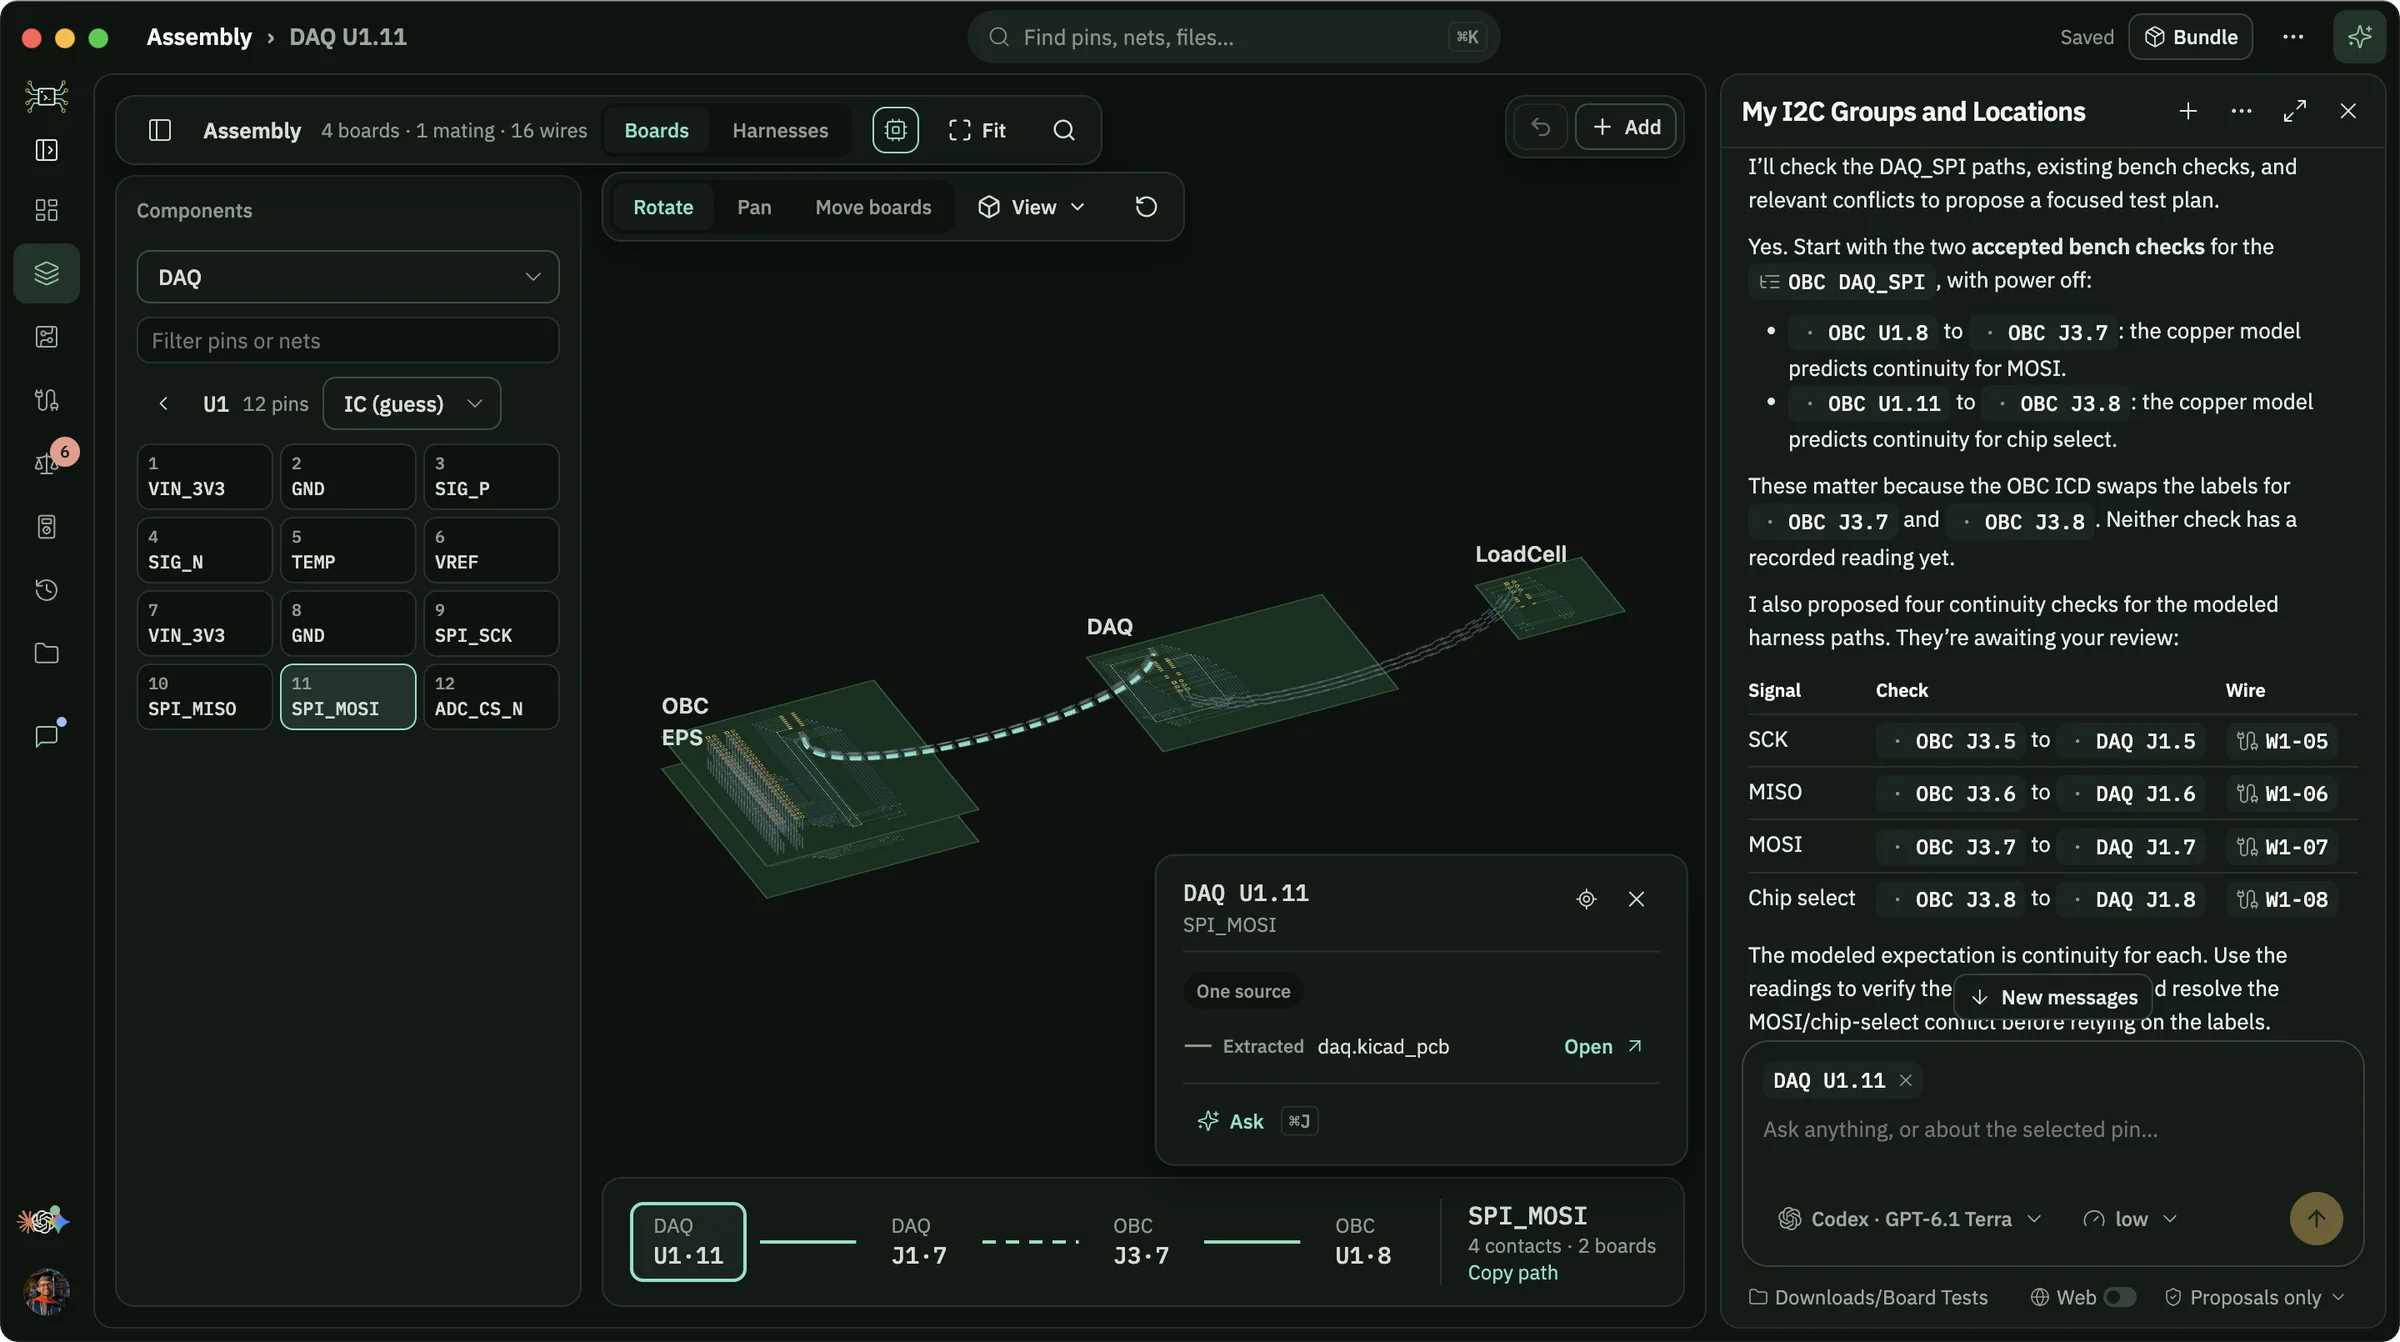
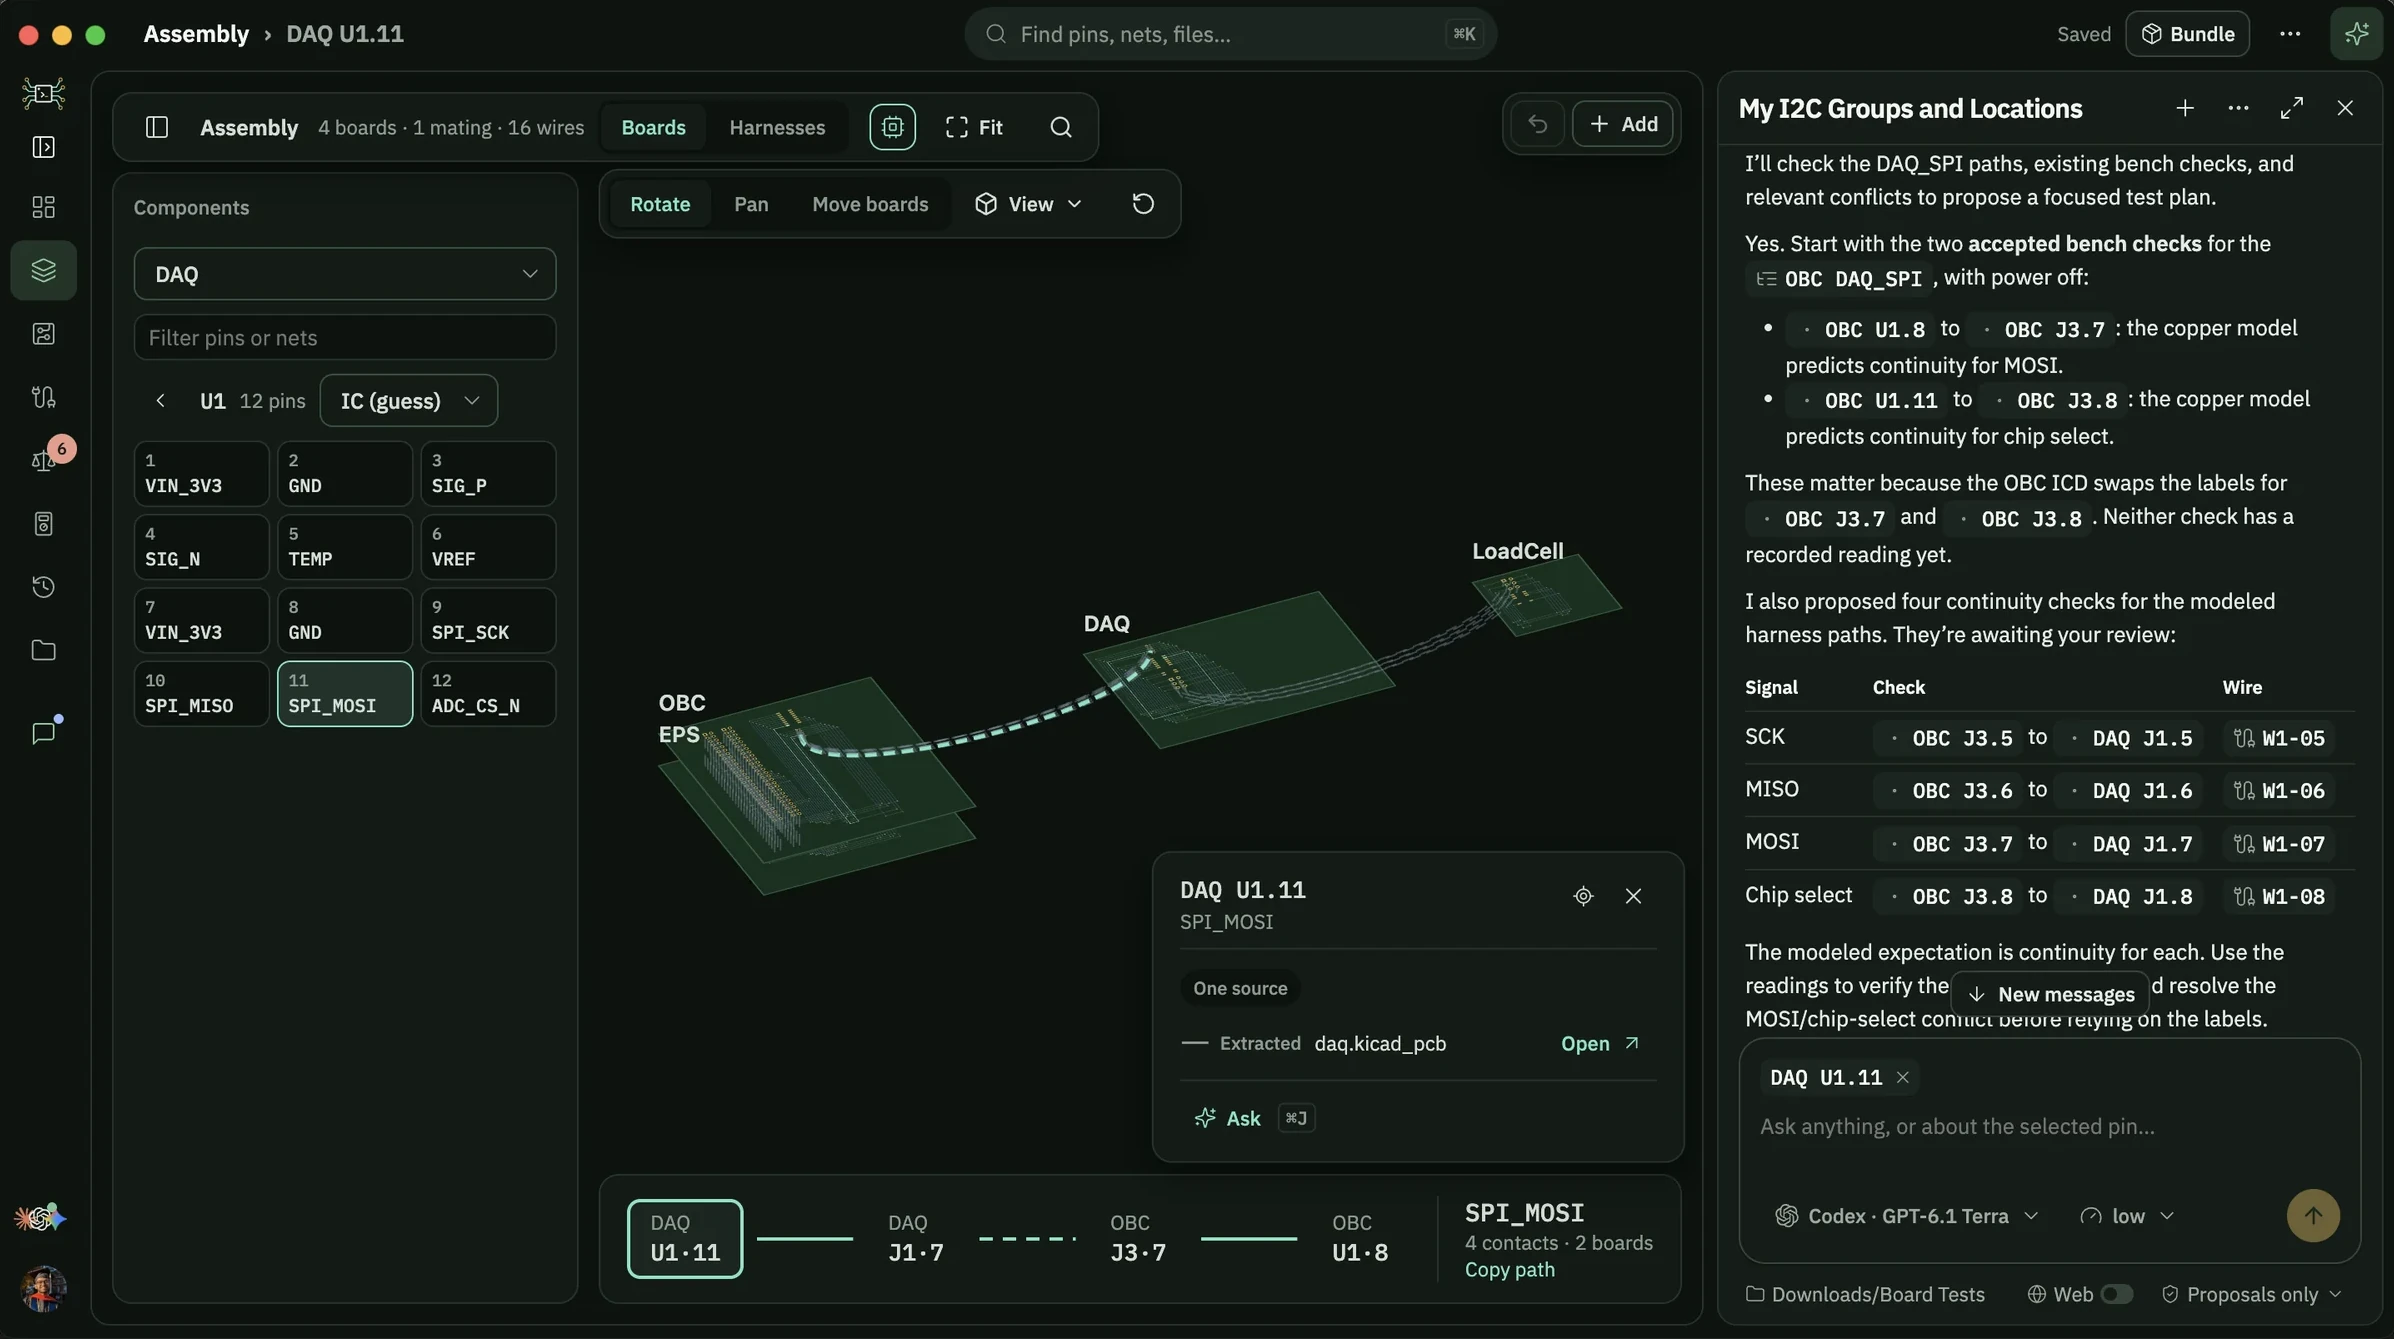
Trim the window border line off the dark app screenshot
Claude-Session: https://claude.ai/code/session_014fdav84Ejza8SwDz2bZnJx

diff --git a/index.html b/index.html
@@ -351,7 +351,7 @@ footer .wrap { display: flex; flex-wrap: wrap; gap: 16px 32px; align-items: cent
 
       <figure class="shot">
         <img class="for-light" src="img/app-light.webp" width="2400" height="1342" alt="The silkscreen desktop app: an assembly of four boards with a pin traced across them, the DAQ pinout on the left and a Codex chat proposing bench checks on the right.">
-        <img class="for-dark" src="img/app-dark.webp" width="2400" height="1342" alt="" aria-hidden="true">
+        <img class="for-dark" src="img/app-dark.webp" width="2394" height="1339" alt="" aria-hidden="true">
         <button class="zoom" type="button" aria-label="Expand screenshot"><svg viewBox="0 0 24 24" aria-hidden="true"><path d="M15 3h6v6M9 21H3v-6M21 3l-7 7M3 21l7-7"/></svg></button>
       </figure>
     </div>
